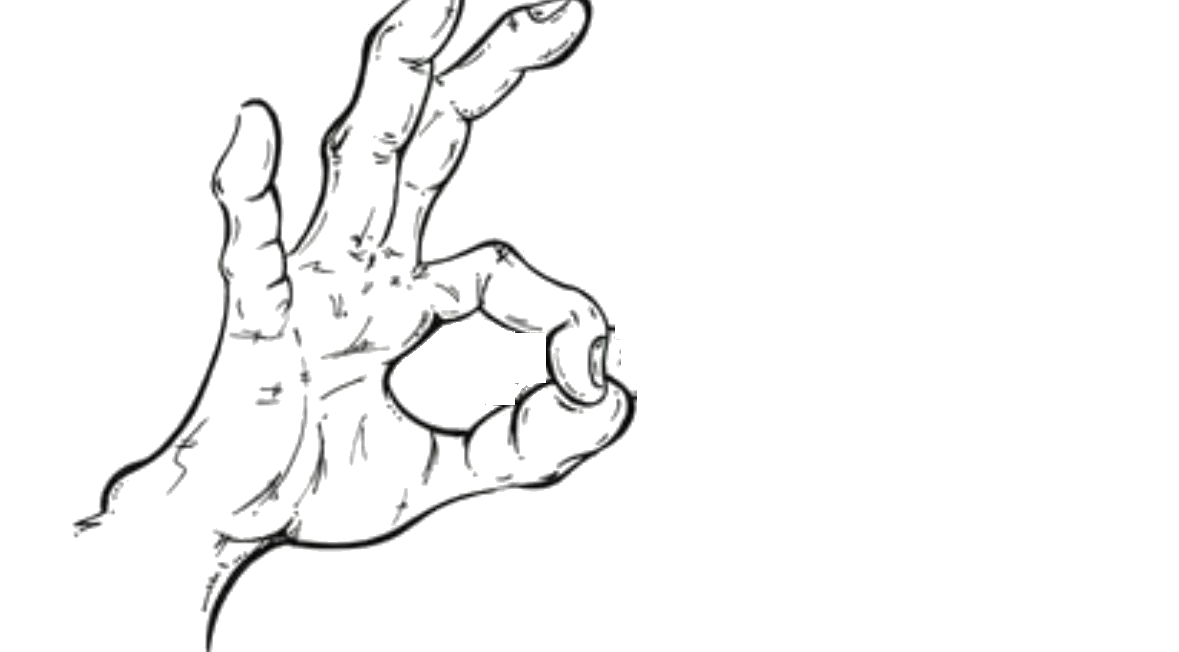
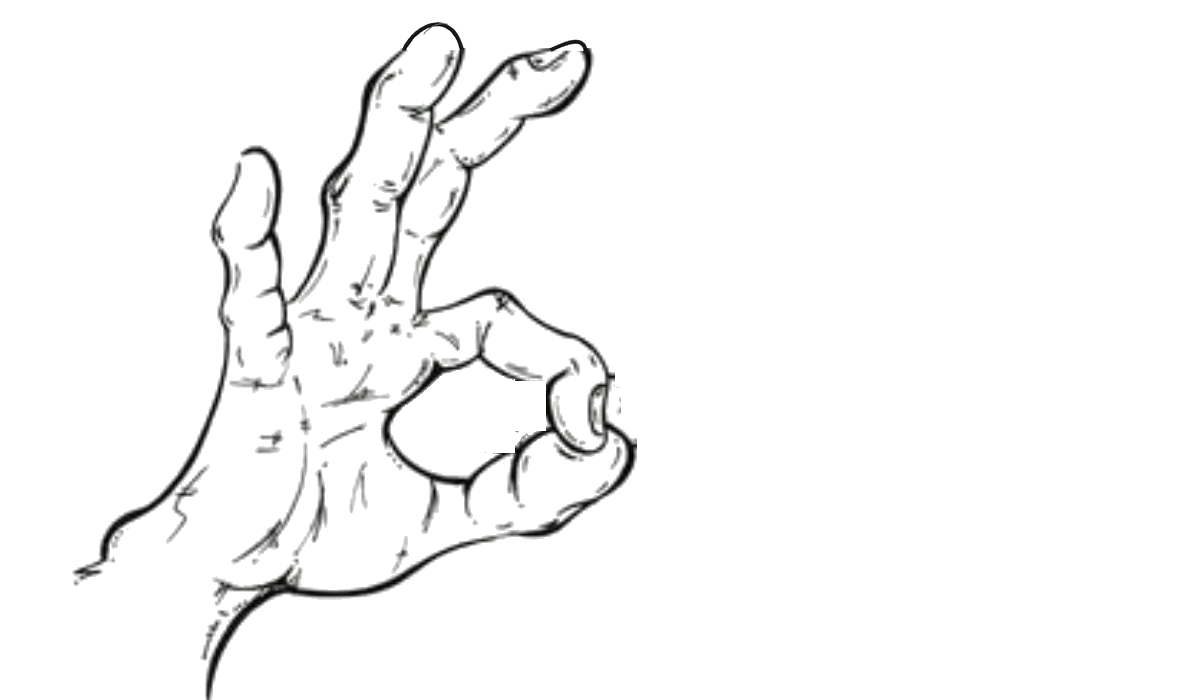
Loading screen inverted to white lines on black; the left hand's fingertips cut off by the drawing's top edge are finished

Changed region(s): [[0.0611, 0.0, 0.5496, 0.9509]]

diff --git a/src/cafe/cafe.css b/src/cafe/cafe.css
@@ -97,16 +97,16 @@ body:has(.cafe-root){margin:0;overflow:hidden;background:#141218}
 }
 @media (prefers-reduced-motion:reduce){.cafe-root .bubble{transition:none}}
 
-/* loading screen: the two hands from the drawing closing in, on the drawing's own white paper */
+/* loading screen: the two hands from the drawing closing in, inverted to white lines on black */
 .loading-hands{position:fixed;inset:0;z-index:50;display:flex;flex-direction:column;align-items:center;justify-content:center;gap:18px;
-  background:#fff;color:#18161c;overflow:hidden;opacity:var(--fade,1);font-family:"DotGothic16","Noto Sans TC",sans-serif}
-.loading-hands .lh-stage{position:relative;width:min(94vw,1000px,150vh);aspect-ratio:1179/652;transform:scale(var(--zoom,1));will-change:transform}
+  background:#000;color:#f2efe9;overflow:hidden;opacity:var(--fade,1);font-family:"DotGothic16","Noto Sans TC",sans-serif}
+.loading-hands .lh-stage{position:relative;width:min(94vw,1000px,140vh);aspect-ratio:1179/700;transform:scale(var(--zoom,1));filter:invert(1);will-change:transform}
 .loading-hands img{position:absolute;inset:0;width:100%;height:100%;user-select:none;pointer-events:none}
 .loading-hands .lh-left{transform:translateX(var(--left,-24%))}
 .loading-hands .lh-right{transform:translateX(var(--right,46%))}
 .loading-hands .lh-caption{margin:0;display:flex;align-items:baseline;gap:12px;font-size:18px;opacity:calc(var(--fade,1) * var(--fade,1))}
-.loading-hands .lh-caption small{font-family:"Press Start 2P",monospace;font-size:9px;letter-spacing:.1em;color:#d0372b}
-.loading-hands .lh-caption span{font-size:14px;color:#6b6670}
+.loading-hands .lh-caption small{font-family:"Press Start 2P",monospace;font-size:9px;letter-spacing:.1em;color:#ff5a4a}
+.loading-hands .lh-caption span{font-size:14px;color:#9a95a0}
 .loading-hands .lh-go,.loading-hands[data-state="in"] .lh-wait{display:none}
 .loading-hands[data-state="in"] .lh-go{display:inline}
 .loading-hands .lh-wait{animation:lh-blink 1.2s steps(2) infinite}

diff --git a/app/LoadingHands.tsx b/app/LoadingHands.tsx
@@ -4,8 +4,9 @@ import { useEffect, useRef } from 'react';
 
 // The loading screen: the two hands from the drawing start apart and creep toward each other while the 3D scene loads.
 // Once it's ready the finger goes home through the ring, and the screen dives into the ring to reveal the café.
-// The hands are two cut-outs of one drawing (public/loading, made by scripts/split-hands.py) that meet exactly as drawn.
-const RING = { x: 0.38, y: 0.56 };   // the hole in the ring, as a fraction of the drawing: where the screen dives in
+// The hands are two cut-outs of one drawing (public/loading, made by scripts/split-hands.py) that meet exactly as drawn,
+// shown inverted: white lines on black.
+const RING = { x: 0.38, y: 0.6 };    // the hole in the ring, as a fraction of the drawing: where the screen dives in
 const MIN_SHOW = 3.0;                 // seconds, so even a fast load shows the hands slowly closing in
 const NEAR = 0.9;                     // how far they get while still loading
 const TAU = 1.3;                      // how slowly they creep in (seconds)

diff --git a/scripts/split-hands.py b/scripts/split-hands.py
@@ -68,3 +68,28 @@ r = Image.open('public/loading/hand-right.png'); r.alpha_composite(patch, (X0, Y
 a = np.asarray(r).copy(); keep = right | tip
 a[keep] = np.dstack([rgb, np.full(rgb.shape[:2], 255, np.uint8)])[keep]
 Image.fromarray(a).save('public/loading/hand-right.png')
+
+# the drawing cuts off two of the left hand's raised fingers at the top edge: give both images PAD rows of headroom
+# (so they still line up) and finish those fingertips, each a rounded cap carrying on its two edge lines
+PAD = 48
+def bez3(p0, p1, p2, p3, n=40):
+    return [tuple((1 - t) ** 3 * a + 3 * (1 - t) ** 2 * t * b + 3 * (1 - t) * t * t * c + t ** 3 * d for a, b, c, d in zip(p0, p1, p2, p3))
+            for t in (i / n for i in range(n + 1))]
+for name in ('hand-left', 'hand-right'):
+    im = Image.open(f'public/loading/{name}.png'); big = Image.new('RGBA', (W, H + PAD), (0, 0, 0, 0)); big.paste(im, (0, PAD)); big.save(f'public/loading/{name}.png')
+S2 = 4
+caps = Image.new('RGBA', (W * S2 // 4, (PAD + 12) * S2), (0, 0, 0, 0))   # just the strip across the top, drawn 4x up
+cd = ImageDraw.Draw(caps)
+CX0 = 380
+upc = lambda pts: [((x - CX0) * S2, (y + PAD) * S2) for x, y in pts]
+INK = (24, 24, 24, 255)
+# the middle finger: its edges cross the top at x 404 (leaning right as it rises) and x 461 (nearly upright)
+mid = bez3((404, 2), (416, -24), (452, -40), (462, 2))
+cd.polygon(upc(mid), fill=(255, 255, 255, 255)); cd.line(upc(mid), fill=INK, width=4 * S2, joint='curve')
+cd.line(upc(bez3((424, -14), (430, -22), (440, -26), (448, -24), 12)), fill=(120, 120, 120, 255), width=1 * S2)   # a fingertip crease
+# the ring finger leans over to the upper right, so only the corner of its tip is lost, between x 551 and 585: its top
+# edge carries on rising gently and rounds over into the upright outer edge
+ring = bez3((551, 2), (566, -5), (584, -13), (586, 3))
+cd.polygon(upc(ring), fill=(255, 255, 255, 255)); cd.line(upc(ring), fill=INK, width=4 * S2, joint='curve')
+caps = caps.resize((W // 4, PAD + 12), Image.LANCZOS)
+left = Image.open('public/loading/hand-left.png'); left.alpha_composite(caps, (CX0, 0)); left.save('public/loading/hand-left.png')
